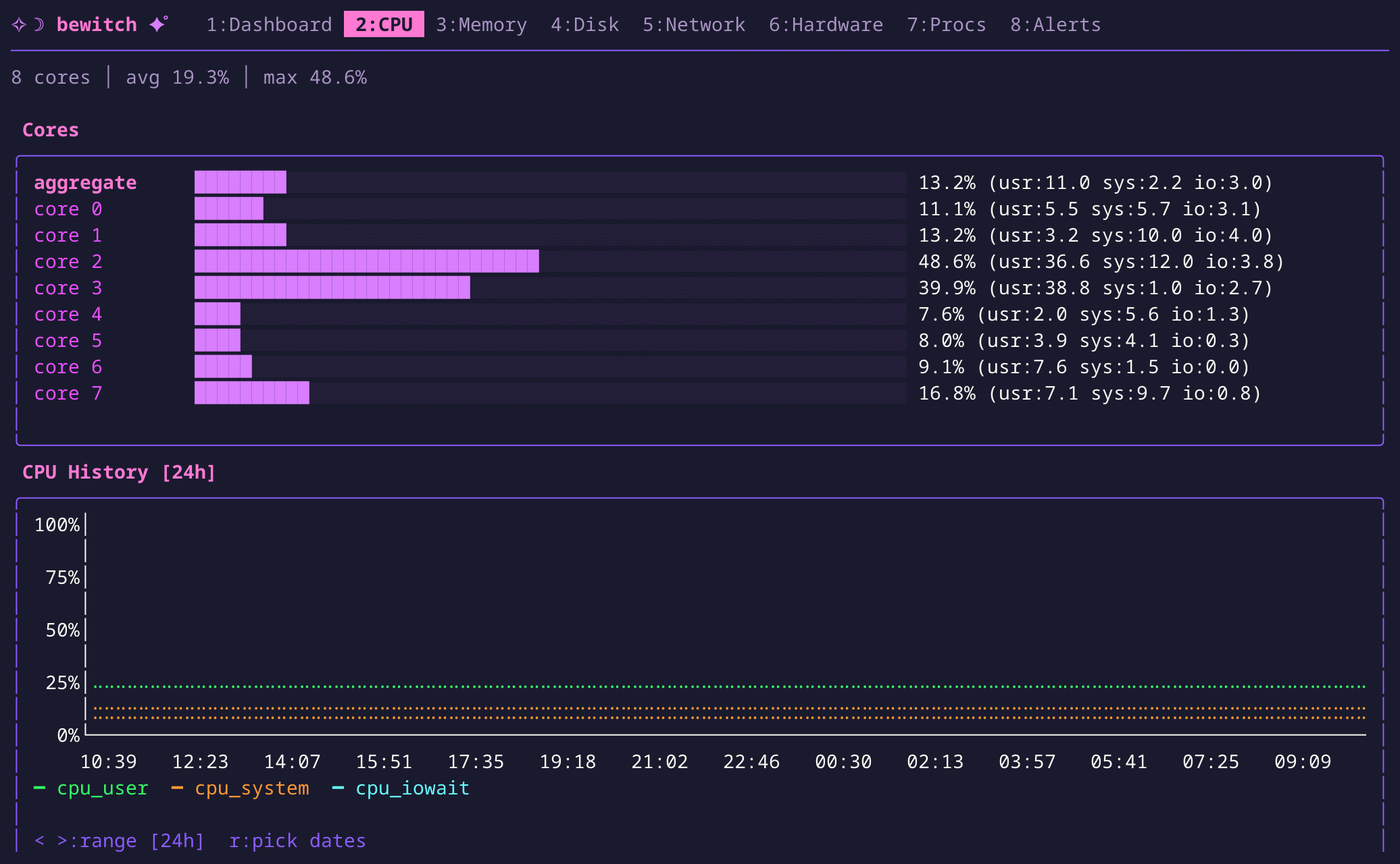
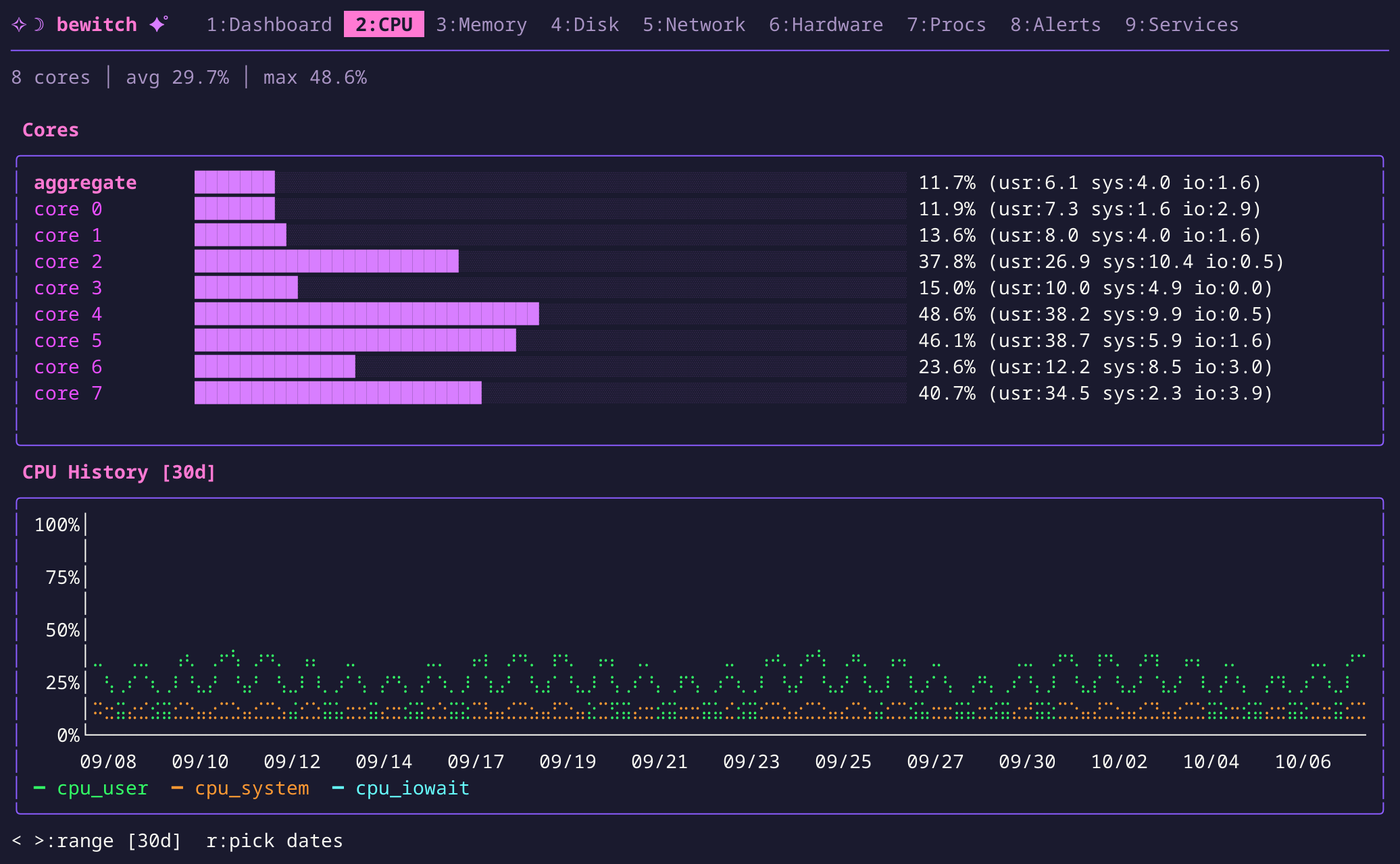
Screenshots: capture Services; fix mock seeding races and flat charts
- capture-views adds the Services tab as a ninth view when custom sources
  exist, fetching its per-metric history like the live app.
- Mock seeding (history + demo alerts) now runs under the maintenance lock
  via Store.SeedMock(). A startup archive is followed by a compaction that
  swaps the database file; the unlocked seeding transaction committed into
  the replaced file and its 30 days of history were lost, and the alert
  seeding used the closed original handle ("database is closed").
- Mock custom sources get plausible values (Pi-hole blocked/percent
  consistent with queries) shared by the live collector and the seeder,
  which now also seeds their history.
- Seeded history gets daily and weekly rhythms so 30-day charts aren't
  flat lines.
- Refreshed all screenshots (adds services.png); updated the
  capture-screenshots skill for the Zola site and the seeding wait.

diff --git a/internal/store/mock_seed.go b/internal/store/mock_seed.go
@@ -8,6 +8,8 @@ import (
 	"time"
 
 	"github.com/charmbracelet/log"
+
+	"github.com/duggan/bewitch/internal/collector"
 )
 
 // smoothWaveAt returns a value oscillating between min and max using a sine wave
@@ -128,6 +130,13 @@ func (s *Store) SeedMockHistory() error {
 	}
 	defer powerStmt.Close()
 
+	customStmt, err := tx.Prepare("INSERT INTO custom_metrics (ts, source, metric, value) VALUES (?, ?, ?, ?)")
+	if err != nil {
+		return fmt.Errorf("prepare custom: %w", err)
+	}
+	defer customStmt.Close()
+	mockSources := collector.MockCustomSources()
+
 	gpuStmt, err := tx.Prepare("INSERT INTO gpu_metrics (ts, gpu_id, utilization_pct, memory_used_bytes, memory_total_bytes, temp_celsius, power_watts, frequency_mhz, frequency_max_mhz, throttle_pct) VALUES (?, ?, ?, ?, ?, ?, ?, ?, ?, ?)")
 	if err != nil {
 		return fmt.Errorf("prepare gpu: %w", err)
@@ -154,11 +163,17 @@ func (s *Store) SeedMockHistory() error {
 		for i := 0; i < steps; i++ {
 			ts := tierStart.Add(time.Duration(i) * tier.interval)
 			t := float64(ts.UnixNano()) / 1e9
+			// Daily and weekly rhythm (busier by day, a slow weekly drift) so
+			// long-range charts, which average into hour-plus buckets, look like
+			// a real host instead of flattening the minute-scale waves to a line.
+			day := (math.Sin(2*math.Pi*t/86400-math.Pi/2) + 1) / 2
+			week := 0.8 + 0.2*math.Sin(2*math.Pi*t/(7*86400))
+			load := day * week // 0..1
 
 		// CPU - aggregate + 8 cores
 		{
-			user := smoothWaveAt(t, 5, 25, 120, 0)
-			sys := smoothWaveAt(t, 2, 10, 90, 1.0)
+			user := 3 + 34*load + smoothWaveAt(t, 0, 6, 120, 0)
+			sys := 1.5 + 9*load + smoothWaveAt(t, 0, 2, 90, 1.0)
 			iow := smoothWaveAt(t, 0, 3, 200, 2.0)
 			idle := math.Max(0, 100-user-sys-iow)
 			cpuStmt.Exec(ts, -1, user, sys, idle, iow)
@@ -175,7 +190,7 @@ func (s *Store) SeedMockHistory() error {
 
 		// Memory
 		{
-			usedPct := smoothWaveAt(t, 0.40, 0.65, 600, 0)
+			usedPct := 0.38 + 0.24*load + smoothWaveAt(t, 0, 0.04, 600, 0)
 			used := uint64(float64(memTotal) * usedPct)
 			buffers := uint64(float64(memTotal) * smoothWaveAt(t, 0.01, 0.03, 300, 1.5))
 			cached := uint64(float64(memTotal) * smoothWaveAt(t, 0.10, 0.20, 400, 2.0))
@@ -205,7 +220,7 @@ func (s *Store) SeedMockHistory() error {
 		{
 			netStmt.Exec(ts,
 				dimIDs["interface/eth0"],
-				smoothWaveAt(t, 1e6, 50e6, 45, 0), smoothWaveAt(t, 0.5e6, 20e6, 60, 0.5),
+				1e6+48e6*load+smoothWaveAt(t, 0, 4e6, 45, 0), 0.5e6+18e6*load+smoothWaveAt(t, 0, 2e6, 60, 0.5),
 				smoothWaveAt(t, 1000, 40000, 45, 0), smoothWaveAt(t, 500, 15000, 60, 0.5),
 			)
 			netStmt.Exec(ts,
@@ -228,7 +243,8 @@ func (s *Store) SeedMockHistory() error {
 				{"sensor/acpitz/temp1", 30, 40, 300, 1.5},
 			}
 			for _, s := range sensors {
-				tempStmt.Exec(ts, dimIDs[s.key], smoothWaveAt(t, s.min, s.max, s.period, s.phase))
+				temp := s.min + (s.max-s.min)*(0.15+0.7*load) + smoothWaveAt(t, 0, 3, s.period, s.phase)
+				tempStmt.Exec(ts, dimIDs[s.key], temp)
 			}
 		}
 
@@ -244,7 +260,8 @@ func (s *Store) SeedMockHistory() error {
 				{"zone/package-0/uncore", 2, 10, 120, 1.0},
 			}
 			for _, z := range zones {
-				powerStmt.Exec(ts, dimIDs[z.key], smoothWaveAt(t, z.min, z.max, z.period, z.phase))
+				watts := z.min + (z.max-z.min)*(0.1+0.8*load) + smoothWaveAt(t, 0, (z.max-z.min)*0.08, z.period, z.phase)
+				powerStmt.Exec(ts, dimIDs[z.key], watts)
 			}
 		}
 
@@ -263,13 +280,22 @@ func (s *Store) SeedMockHistory() error {
 			// NVIDIA discrete
 			gpuStmt.Exec(ts,
 				dimIDs["gpu/NVIDIA GeForce RTX 4090"],
-				smoothWaveAt(t, 10, 85, 45, 2.0),                     // utilization
+				5+75*load+smoothWaveAt(t, 0, 8, 45, 2.0),             // utilization
 				int64(smoothWaveAt(t, 2e9, 18e9, 120, 0.5)), int64(24e9), // memory
 				smoothWaveAt(t, 35, 78, 90, 1.0),                     // temp
 				smoothWaveAt(t, 30, 350, 45, 1.5),                    // power
 				int32(smoothWaveAt(t, 210, 2520, 60, 0)), int32(2520), // freq
 				0.0, // throttle (N/A for NVIDIA)
 			)
+		}
+
+		// Custom sources (the Services tab)
+		for _, src := range mockSources {
+			for _, m := range src.Metrics {
+				if v, ok := collector.MockCustomValue(src.Name, m.Name, t); ok {
+					customStmt.Exec(ts, src.Name, m.Name, v)
+				}
+			}
 		}
 	}
 	}
@@ -279,6 +305,22 @@ func (s *Store) SeedMockHistory() error {
 	}
 
 	log.Infof("mock history seeded successfully")
+	return nil
+}
+
+// SeedMock seeds mock history and demo alerts while holding the maintenance
+// lock. A startup archive pass is followed by a compaction, which swaps the
+// database file; without the lock, a concurrent seeding transaction could
+// commit into the file being replaced and its 30 days of history vanished.
+func (s *Store) SeedMock() error {
+	s.opMu.Lock()
+	defer s.opMu.Unlock()
+	if err := s.SeedMockHistory(); err != nil {
+		return fmt.Errorf("history: %w", err)
+	}
+	if err := SeedMockAlerts(s.DB()); err != nil {
+		return fmt.Errorf("alerts: %w", err)
+	}
 	return nil
 }
 

diff --git a/internal/collector/customsource_mock.go b/internal/collector/customsource_mock.go
@@ -1,6 +1,7 @@
 package collector
 
 import (
+	"math"
 	"time"
 
 	"github.com/duggan/bewitch/internal/config"
@@ -49,9 +50,41 @@ func NewMockCustomSourceCollector(cfg config.CustomSourceConfig) *MockCustomSour
 
 func (c *MockCustomSourceCollector) Name() string { return "custom:" + c.cfg.Name }
 
+// MockCustomValue returns a plausible value for one of MockCustomSources'
+// metrics at time t (unix seconds), so the live mock collector and the
+// history seeder agree and the Services tab looks like the real services:
+// Pi-hole's blocked count and percentage are consistent with its query count,
+// Home Assistant's entity/automation counts are steady. ok is false for
+// metrics it doesn't model.
+func MockCustomValue(source, metric string, t float64) (v float64, ok bool) {
+	wave := func(min, max, period, phase float64) float64 {
+		return min + (max-min)*(math.Sin(t*2*math.Pi/period+phase)+1)/2
+	}
+	queries := math.Round(wave(18000, 46000, 86400, 0))
+	blockedFrac := wave(0.18, 0.31, 21600, 1.3)
+	switch source + "/" + metric {
+	case "pihole/queries":
+		return queries, true
+	case "pihole/blocked":
+		return math.Round(queries * blockedFrac), true
+	case "pihole/block_pct":
+		return math.Round(blockedFrac*1000) / 10, true
+	case "homeassistant/entities":
+		return math.Round(wave(181, 189, 7200, 0.4)), true
+	case "homeassistant/automations":
+		return math.Round(wave(23, 26, 43200, 2.1)), true
+	}
+	return 0, false
+}
+
 func (c *MockCustomSourceCollector) Collect() (Sample, error) {
 	data := CustomSourceData{Source: c.cfg.Name}
+	now := float64(time.Now().UnixNano()) / 1e9
 	for i, m := range c.cfg.Metrics {
+		if v, ok := MockCustomValue(c.cfg.Name, m.Name, now); ok {
+			data.Metrics = append(data.Metrics, CustomMetricSample{Name: m.Name, Unit: m.Unit, Value: v})
+			continue
+		}
 		phase := float64(i) * 0.7
 		var v float64
 		switch m.Unit {

diff --git a/internal/tui/capture_ansi.go b/internal/tui/capture_ansi.go
@@ -671,6 +671,27 @@ func (m *Model) fetchHistoryForCapture(v view) {
 	end := time.Now()
 	start := end.Add(-m.historyRanges[m.historyRange].Duration)
 
+	if v == viewServices {
+		// Custom-source history is per (source, metric), outside the generic
+		// per-view history path.
+		m.refreshCustomData()
+		m.cachedHistoryCharts[m.current] = ""
+		source, metric, _ := m.selectedCustomSeries()
+		if source == "" || metric == "" {
+			return
+		}
+		series, err := m.client.GetCustomHistory(source, metric, start, end)
+		if err != nil || len(series) == 0 {
+			return
+		}
+		m.servicesHist[servicesHistKey(source, metric)] = customHistEntry{series: series, start: start, end: end}
+		m.historySeries = series
+		m.historyStart = start
+		m.historyEnd = end
+		m.regenerateHistoryChart()
+		return
+	}
+
 	metric := viewMetric(v)
 	if v == viewHardware {
 		switch m.hardwareSection {

diff --git a/internal/tui/app.go b/internal/tui/app.go
@@ -3570,6 +3570,7 @@ var captureFileName = map[view]string{
 	viewHardware:  "hardware",
 	viewProcess:   "process",
 	viewAlerts:    "alerts",
+	viewServices:  "services",
 }
 
 // CaptureAllViews renders all views to PNG files in dir.
@@ -3587,6 +3588,11 @@ func (m *Model) CaptureAllViews(dir string) (imgW, imgH int, files []string, err
 	m.initSelectionMaps()
 
 	views := []view{viewDashboard, viewCPU, viewMemory, viewDisk, viewNetwork, viewHardware, viewProcess, viewAlerts}
+	if len(m.customSources) > 0 {
+		// The Services tab only exists when custom sources are configured
+		// (mock mode synthesizes two).
+		views = append(views, viewServices)
+	}
 	for _, v := range views {
 		name, ok := captureFileName[v]
 		if !ok {

diff --git a/cmd/bewitchd/main.go b/cmd/bewitchd/main.go
@@ -114,11 +114,8 @@ func main() {
 		// daemon socket comes up immediately (seeding can take 10+ seconds
 		// on slow CI machines).
 		go func() {
-			if err := st.SeedMockHistory(); err != nil {
-				log.Errorf("seeding mock history: %v", err)
-			}
-			if err := store.SeedMockAlerts(database); err != nil {
-				log.Errorf("seeding mock alerts: %v", err)
+			if err := st.SeedMock(); err != nil {
+				log.Errorf("seeding mock data: %v", err)
 			}
 		}()
 		cpuCollector = collector.NewMockCPUCollector()

diff --git a/CLAUDE.md b/CLAUDE.md
@@ -114,7 +114,7 @@ examples/           — shipped example configs (sources.d/proxmox.toml → /usr
 - **Dead-man's-switch**: a built-in check (`Engine.collectionStalled`, reserved `rule_name = "collection-stalled"`) fires a critical alert when the newest `cpu_metrics` sample is older than `max(2m, 12× eval interval)` — catching in-process collection stalls (a collector wedged in backoff, a stuck writer, dropped batches) that would otherwise make every rule query an empty window and look healthy. It returns nil (no fire) when `cpu_metrics` is empty so it never false-fires at startup, and resolves via the same lifecycle when collection resumes. A fully dead daemon can't fire it (the engine dies too) — that needs external monitoring.
 - **Notification methods**: the `Notifier` interface in `internal/alert/notifier.go` abstracts all notification delivery. Each type implements `Name()`, `Method()`, and `Send(*Alert) NotifyResult`. The engine constructs `[]Notifier` from config at startup. `sendNotifications()` is async fire-and-forget; `SendTestNotifications()` is synchronous for the test endpoint. Supported methods: **email** (SMTP with STARTTLS/implicit TLS via `net/smtp`, or the local mail system via `use_mail_cmd = true`: under `NoNewPrivileges` — i.e. the packaged unit, detected from `/proc/self/status` (`noNewPrivsFn`) — it submits to the local MTA over plain SMTP on `localMTAAddr` = `127.0.0.1:25`, because exec'ing `mail` reaches Postfix's setgid `postdrop` (Exim/sendmail are setuid/setgid too), which NNP neuters: postdrop failed `mail_queue_enter: create file maildrop/…: Permission denied` and every alert was dropped. If nothing listens on loopback:25 (`errNoLocalMTA`) it falls back to `mail` (msmtp-style relays need no privileges); a real MTA rejection is returned, not silently retried via `mail`. Outside NNP, `mail` runs as before. Empty `from` becomes `bewitch@<hostname>` on the SMTP path), **command** (arbitrary shell command with alert details as `BEWITCH_*` env vars, 10s timeout). Both exec-based notifiers go through `contain(cmd)` (`procgroup_unix.go`): own process group, the whole group SIGKILLed on timeout (`cmd.Cancel`), and `cmd.WaitDelay` 2s — `exec.CommandContext` alone kills only the direct child, so descendants (mail → sendmail → postdrop) survived and looped until a daemon restart, and because they held the stdout/stderr pipes `cmd.Run()` could block **forever**, wedging the notifier goroutine (`TestNotifierTimeoutKillsProcessTree` hangs without it), and **shoutrrr** (`shoutrrr.go`, `github.com/containrrr/shoutrrr`) — Discord/Telegram/ntfy/Slack/Gotify/webhook/etc. from a single service URL, configured as `shoutrrr_urls = [...]` (a list of strings, not a `[[...]]` table). Shoutrrr URLs embed secrets, so `Name()`/`Dest` are redacted to the scheme only (`redactShoutrrrURL` → `discord://***`) — never log the raw URL. Config: `[[alerts.email]]`, `[[alerts.commands]]`, `[alerts] shoutrrr_urls`. Test endpoint: `POST /api/test-notifications`. TUI: `t` key on alerts view tests all configured notifiers (shoutrrr included automatically).
 - **GPU monitoring**: the GPU collector has a `gpuBackend` interface (`read()`/`stop()`) with one backend per vendor, all registered in `NewGPUCollector` and merged each `Collect()`. **Intel** iGPUs via `intel_gpu_top -J` (long-lived subprocess, JSON stream); **NVIDIA** via `nvidia-smi` (point-in-time CSV) — both auto-detect their tool via `exec.LookPath`. **AMD** (`gpu_amd.go`) is **tool-free**: it reads `amdgpu` sysfs directly — discovered by globbing `amdDRMGlob` (`/sys/class/drm/card*/device/gpu_busy_percent`, which naturally excludes DRM connectors and non-AMD cards; a package var for the fixture test), reading `gpu_busy_percent` (util %), `mem_info_vram_used`/`_total` (VRAM), `hwmon/hwmon*/temp1_input` (millidegrees → °C) and `power1_average` (µW → W), and the `*`-marked state in `pp_dpm_sclk` (clock MHz); `vendor` must be `0x1002`. `stop()` is a no-op (sysfs is stateless). Name uses `product_name` if present, else `AMD GPU (cardN)`. So AMD needs no `DetectGPUHints` entry (no tool to nag about). The Intel backend runs `intel_gpu_top` as a persistent subprocess with a reader goroutine caching the latest sample; the first sample is discarded (needs prior period for deltas). GPU metrics include utilization %, frequency, power, memory (NVIDIA only), and temperature. The collector has a `Stop()` method called on daemon shutdown to kill the subprocess. GPU data is stored via a separate `SetGPUSnapshot()` API method (matching `SetProcessSnapshot` pattern). The Hardware view (tab 6) has a GPU sub-section alongside temperature/power/ECC. Alert rules support `gpu.utilization`, `gpu.temperature`, and `gpu.power` metrics.
-- **Custom HTTP data sources**: user-defined sources poll a local service's HTTP API (Pi-hole/Home Assistant/Docker/etc.) and surface chosen fields without any Go. Config is top-level `[[custom_source]]` (a sibling of `[[alerts.email]]`, **not** under `[collectors]` — it's host config) plus drop-in `*.toml` files under `[daemon] sources_dir` (default `<configdir>/sources.d`); `config.LoadSources(inline, dir)` (`internal/config/sources.go`) merges them, dedups by `name` (last-wins, drop-in overrides inline, WARN on collision), skips disabled, and returns enabled+validated sources (an invalid source is a fatal startup error). Each source declares numeric `[[custom_source.metric]]` (name + gjson `path` + `unit`: bytes|bits|percent|count|duration|raw) and non-numeric `[[custom_source.status]]` (label + path + optional value→badge map). **One `CustomSourceCollector` per source** (`internal/collector/customsource.go`, registered in `cmd/bewitchd/main.go` after the process collector) so each gets its own interval + independent backoff; `Name()` is `"custom:<name>"`. Extraction uses `github.com/tidwall/gjson` (`gjson.GetBytes`); a missing path is skipped, **all** paths missing → error (so a wrong endpoint/changed schema backs off, not silently stores nothing). Security: redirects disabled (`CheckRedirect`), 1 MiB `io.LimitReader` body cap (mirrors `maxRequestBody`), `GetTimeout(interval)` hard-caps the per-request timeout below the interval (collectors share a per-tick `wg.Wait()`, so a hung poll must not outlast its tick), auth (`bearer`/`basic`/`header`) + unix-socket transport (Docker), an optional `[custom_source.tls]` block for self-signed HTTPS (exactly one of `fingerprint` — SHA-256 leaf pin, accepts `sha256:`/hex/colon forms via `config.NormalizeFingerprint`, chain+hostname not checked, mismatch error names the presented fingerprint but never auto-trusts; `ca_file` — PEM roots with hostname checks; `insecure_skip_verify` — WARN at construction; https-only, validated in `Validate()`, applied by `customTLSConfig` in `customsource.go`), and secrets are never logged (`redactedURL()` returns **scheme+host only** — path and query are dropped, since API keys are often embedded in the URL path, e.g. `https://host/v1/<apikey>/states`) nor returned by the API. **Numeric metrics are stored**, status is **live-only**: migration `000015` `custom_metrics(ts, source, metric, value)` denormalizes source/metric as VARCHAR like `smart_metrics` (added to `db.MetricTables`/`archiveViewTables` so prune/compact/archive cover it); `writeCustom`/`writeCustomAppender` skip empty (status-only) samples. API (`internal/api/custom.go`): the live cache is keyed by source so `SetCustomSnapshot(source, metrics, status)` **merges** (each per-source collector pushes only its own rows) and `getCachedCustom()` flattens source-sorted for stable ETags; `GET /api/metrics/custom` (cache+304), `GET /api/custom/sources` (static catalog set via `SetCustomCatalog`, **no auth/URLs** — what the TUI renders from), `GET /api/history/custom?source=&metric=` (hand-written, archive-aware — can't reuse the dimension-FK `handleDimHistory`; `historyCacheKey` keys on source+metric). Prometheus exports `bewitch_custom_value{source,metric}` (gauge); status strings are **not** exported (unbounded label cardinality). TUI: a conditional **Services** tab (`viewServices`, appended by `updateVisibleTabs()` only when `len(customSources)>0`, kept last so the position-relative 1-8 number keys never shift) with one sub-section per source (tab/shift+tab, persisted as `services_section`), a status strip (badge→colour), a metrics list (selected metric drives the chart, `↑↓`), and a per-metric history chart; `fetchHistoryCmd` special-cases `viewServices` → `fetchCustomHistoryCmd` (full fetch only, source+metric keyed, outside the generic per-view cache); `hasHistory()` is true for `viewServices` only when the active source has metrics. Mock mode (`MockCustomSources`/`NewMockCustomSourceCollector`) synthesizes two sources so the tab is screenshot-able on macOS.
+- **Custom HTTP data sources**: user-defined sources poll a local service's HTTP API (Pi-hole/Home Assistant/Docker/etc.) and surface chosen fields without any Go. Config is top-level `[[custom_source]]` (a sibling of `[[alerts.email]]`, **not** under `[collectors]` — it's host config) plus drop-in `*.toml` files under `[daemon] sources_dir` (default `<configdir>/sources.d`); `config.LoadSources(inline, dir)` (`internal/config/sources.go`) merges them, dedups by `name` (last-wins, drop-in overrides inline, WARN on collision), skips disabled, and returns enabled+validated sources (an invalid source is a fatal startup error). Each source declares numeric `[[custom_source.metric]]` (name + gjson `path` + `unit`: bytes|bits|percent|count|duration|raw) and non-numeric `[[custom_source.status]]` (label + path + optional value→badge map). **One `CustomSourceCollector` per source** (`internal/collector/customsource.go`, registered in `cmd/bewitchd/main.go` after the process collector) so each gets its own interval + independent backoff; `Name()` is `"custom:<name>"`. Extraction uses `github.com/tidwall/gjson` (`gjson.GetBytes`); a missing path is skipped, **all** paths missing → error (so a wrong endpoint/changed schema backs off, not silently stores nothing). Security: redirects disabled (`CheckRedirect`), 1 MiB `io.LimitReader` body cap (mirrors `maxRequestBody`), `GetTimeout(interval)` hard-caps the per-request timeout below the interval (collectors share a per-tick `wg.Wait()`, so a hung poll must not outlast its tick), auth (`bearer`/`basic`/`header`) + unix-socket transport (Docker), an optional `[custom_source.tls]` block for self-signed HTTPS (exactly one of `fingerprint` — SHA-256 leaf pin, accepts `sha256:`/hex/colon forms via `config.NormalizeFingerprint`, chain+hostname not checked, mismatch error names the presented fingerprint but never auto-trusts; `ca_file` — PEM roots with hostname checks; `insecure_skip_verify` — WARN at construction; https-only, validated in `Validate()`, applied by `customTLSConfig` in `customsource.go`), and secrets are never logged (`redactedURL()` returns **scheme+host only** — path and query are dropped, since API keys are often embedded in the URL path, e.g. `https://host/v1/<apikey>/states`) nor returned by the API. **Numeric metrics are stored**, status is **live-only**: migration `000015` `custom_metrics(ts, source, metric, value)` denormalizes source/metric as VARCHAR like `smart_metrics` (added to `db.MetricTables`/`archiveViewTables` so prune/compact/archive cover it); `writeCustom`/`writeCustomAppender` skip empty (status-only) samples. API (`internal/api/custom.go`): the live cache is keyed by source so `SetCustomSnapshot(source, metrics, status)` **merges** (each per-source collector pushes only its own rows) and `getCachedCustom()` flattens source-sorted for stable ETags; `GET /api/metrics/custom` (cache+304), `GET /api/custom/sources` (static catalog set via `SetCustomCatalog`, **no auth/URLs** — what the TUI renders from), `GET /api/history/custom?source=&metric=` (hand-written, archive-aware — can't reuse the dimension-FK `handleDimHistory`; `historyCacheKey` keys on source+metric). Prometheus exports `bewitch_custom_value{source,metric}` (gauge); status strings are **not** exported (unbounded label cardinality). TUI: a conditional **Services** tab (`viewServices`, appended by `updateVisibleTabs()` only when `len(customSources)>0`, kept last so the position-relative 1-8 number keys never shift) with one sub-section per source (tab/shift+tab, persisted as `services_section`), a status strip (badge→colour), a metrics list (selected metric drives the chart, `↑↓`), and a per-metric history chart; `fetchHistoryCmd` special-cases `viewServices` → `fetchCustomHistoryCmd` (full fetch only, source+metric keyed, outside the generic per-view cache); `hasHistory()` is true for `viewServices` only when the active source has metrics. Mock mode (`MockCustomSources`/`NewMockCustomSourceCollector`) synthesizes two sources so the tab is screenshot-able on macOS; `MockCustomValue` gives them plausible values (Pi-hole blocked/percent consistent with queries) shared by the live mock collector and the history seeder, and `bewitch capture-views` captures Services as a ninth view when custom sources exist. Mock seeding runs via `Store.SeedMock()`, which holds the maintenance lock (`opMu`): a startup archive is followed by a compaction that swaps the DB file, and an unlocked seeding transaction committed into the replaced file, losing its 30 days of history. The seeder adds daily/weekly rhythms so long-range charts aren't flat.
 - **Sensor/zone caching**: temperature and power collectors cache discovered sensor/zone paths and refresh every 60 seconds, avoiding expensive `filepath.Glob()` calls on every collection cycle.
 - **Dimension ID caching**: dimension values (mount, device, interface, sensor, zone names) are cached in memory with IDs assigned at first sight. `ensureDimensionID()` handles inserts during Phase 1; `getCachedDimensionID()` is cache-only for Phase 3.
 - **Process info caching**: `procInfoCache map[processKey]time.Time` tracks which `(pid, start_time)` pairs have been inserted into `process_info` (mapping each to last-seen time), skipping duplicate inserts for known processes. **It must stay bounded independently of retention**: it is rebuilt by `Prune()`/`Compact()`, but those are gated on optional config, so with retention unset the cache otherwise grows for the daemon's whole lifetime (a real source of multi-hundred-MB RSS growth / OOM observed on a 2GB host). An always-on goroutine in `cmd/bewitchd/main.go` calls `EvictStaleProcInfoCache(procInfoCacheMaxAge)` every `procInfoCacheEvictInterval` (15m max-age, 5m sweep) to drop entries not seen recently; `prepareProcessInfo` refreshes last-seen for all live processes each cycle so long-running ones are never evicted. Re-inserting an evicted-but-alive process is harmless (`process_info` inserts use `ON CONFLICT DO NOTHING`).

diff --git a/.claude/skills/capture-screenshots/SKILL.md b/.claude/skills/capture-screenshots/SKILL.md
@@ -17,8 +17,8 @@ Capture high-resolution PNG screenshots of all bewitch TUI views for the website
 
 1. **Builds** the project (`make build`)
 2. **Starts `bewitchd` in mock mode** to generate synthetic data
-3. **Captures** all 8 views using `bewitch capture-views`
-4. **Updates** `site/src/pages/home.tsx` image dimensions if they changed
+3. **Captures** all views (9 in mock mode, including Services) using `bewitch capture-views`
+4. **Checks** the homepage `<img>` dimensions in `site/templates/index.html` still match
 5. **Cleans up** the daemon
 
 ## Prerequisites
@@ -27,11 +27,12 @@ Capture high-resolution PNG screenshots of all bewitch TUI views for the website
 
 ## Mock Daemon Setup
 
-The screenshots use `data/bewitch.toml` which has `mock = true` — the daemon generates synthetic data without real collectors. Start it and allow ~10 seconds for data to accumulate so history charts have content:
+The screenshots use `data/bewitch.toml` which has `mock = true` — the daemon generates synthetic data without real collectors. Start it on a **fresh** database and wait for seeding to finish. On first start the daemon seeds 30 days of tiered history (with daily and weekly rhythms, so long-range charts aren't flat), custom-source history for the Services tab, and demo alert rules and fired alerts. Seeding holds the maintenance lock, so a startup archive or compaction (the mock config sets `archive_threshold`) waits for it:
 
 ```bash
+rm -f /tmp/bewitch.duckdb /tmp/bewitch.duckdb.wal /tmp/bewitch.sock && rm -rf /tmp/archive
 ./bin/bewitchd -config data/bewitch.toml &>/tmp/bewitchd.log &
-sleep 10
+# wait until the log shows "mock alerts seeded" (and "compaction complete" if archiving), then ~20s more
 ```
 
 The mock config uses `/tmp/bewitch.sock` and `/tmp/bewitch.duckdb`, so it won't conflict with a real installation.
@@ -41,10 +42,10 @@ Kill the daemon after capturing: `kill $(pgrep -f 'bewitchd.*data/bewitch.toml')
 ## Capture Command
 
 ```bash
-./bin/bewitch -config data/bewitch.toml capture-views site/public/screenshots/
+./bin/bewitch -config data/bewitch.toml capture-views site/static/screenshots/
 ```
 
-This captures all 8 views (Dashboard, CPU, Memory, Disk, Network, Hardware, Process, Alerts) as PNG files rendered with embedded Noto Sans Mono fonts at 144 DPI (2x resolution).
+This captures all views (Dashboard, CPU, Memory, Disk, Network, Hardware, Process, Alerts, plus Services whenever custom sources exist; mock mode always has two) as PNG files rendered with embedded Noto Sans Mono fonts at 144 DPI (2x resolution).
 
 ### Options
 
@@ -70,7 +71,7 @@ Mock mode generates synthetic data for all collectors including temperature, pow
 
 ## Output Files
 
-The command writes these files to `site/public/screenshots/`:
+The command writes these files to `site/static/screenshots/`:
 
 - `dashboard.png`
 - `cpu.png`
@@ -80,10 +81,11 @@ The command writes these files to `site/public/screenshots/`:
 - `hardware.png`
 - `process.png`
 - `alerts.png`
+- `services.png`
 
 ## Homepage Integration
 
-The homepage at `site/src/pages/home.tsx` references these images in the "See it in action" slideshow section. The `<img>` tags have `width` and `height` attributes that should match the pixel dimensions printed by the capture command.
+The homepage template `site/templates/index.html` and the repo `README.md` reference these images. The homepage `<img>` tags have `width` and `height` attributes that should match the pixel dimensions printed by the capture command (currently 2072x1280).
 
 ## Instructions
 
@@ -93,23 +95,24 @@ When invoked:
    ```bash
    make build
    ```
-2. Start the mock daemon and wait for data:
+2. Start the mock daemon on a fresh database and wait for seeding (see "Mock Daemon Setup"):
    ```bash
+   rm -f /tmp/bewitch.duckdb /tmp/bewitch.duckdb.wal /tmp/bewitch.sock && rm -rf /tmp/archive
    ./bin/bewitchd -config data/bewitch.toml &>/tmp/bewitchd.log &
-   sleep 10
+   # wait for "mock alerts seeded" (and "compaction complete") in /tmp/bewitchd.log, then ~20s
    ```
 3. Capture all views:
    ```bash
-   ./bin/bewitch -config data/bewitch.toml capture-views site/public/screenshots/
+   ./bin/bewitch -config data/bewitch.toml capture-views site/static/screenshots/
    ```
 4. Note the pixel dimensions from the output (e.g., `2072x1288 pixels`)
 5. Kill the daemon:
    ```bash
    kill $(pgrep -f 'bewitchd.*data/bewitch.toml')
    ```
-6. Check the `width` and `height` attributes in `site/src/pages/home.tsx` — update them if the dimensions changed
+6. Check the `width` and `height` attributes in `site/templates/index.html`; update them if the dimensions changed
 7. Review the captured PNGs by reading them (Claude can view PNG images)
-8. Ask if the user wants to rebuild the site (`cd site && bun run build`)
+8. Ask if the user wants to rebuild the site (`make site`, or `cd site && zola build`)
 
 ## Capture Settings
 
